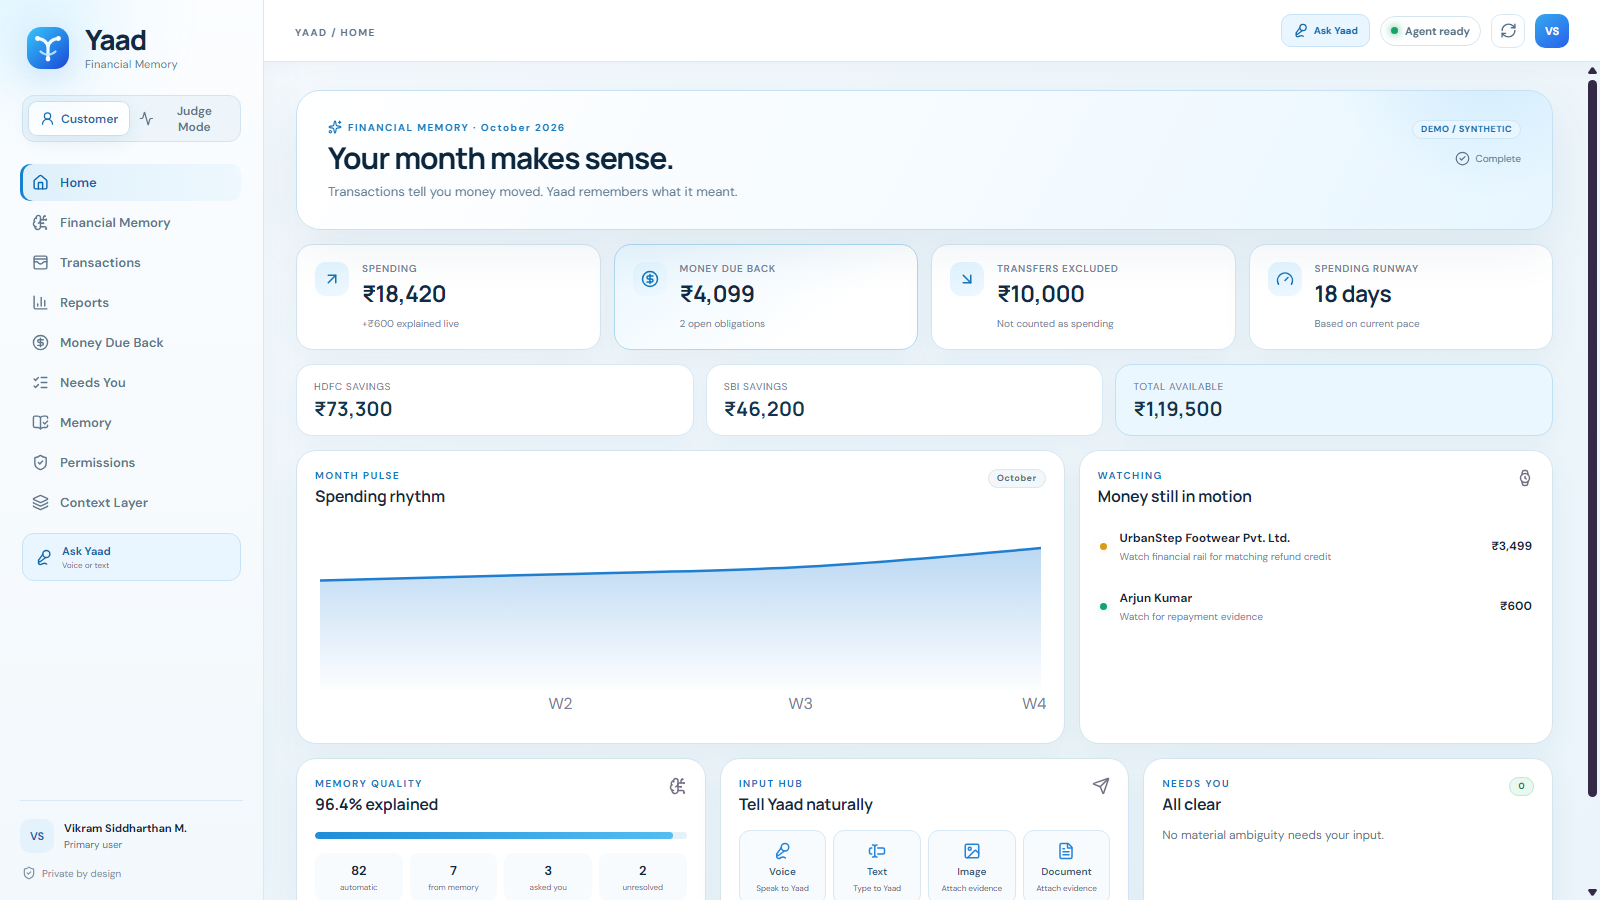
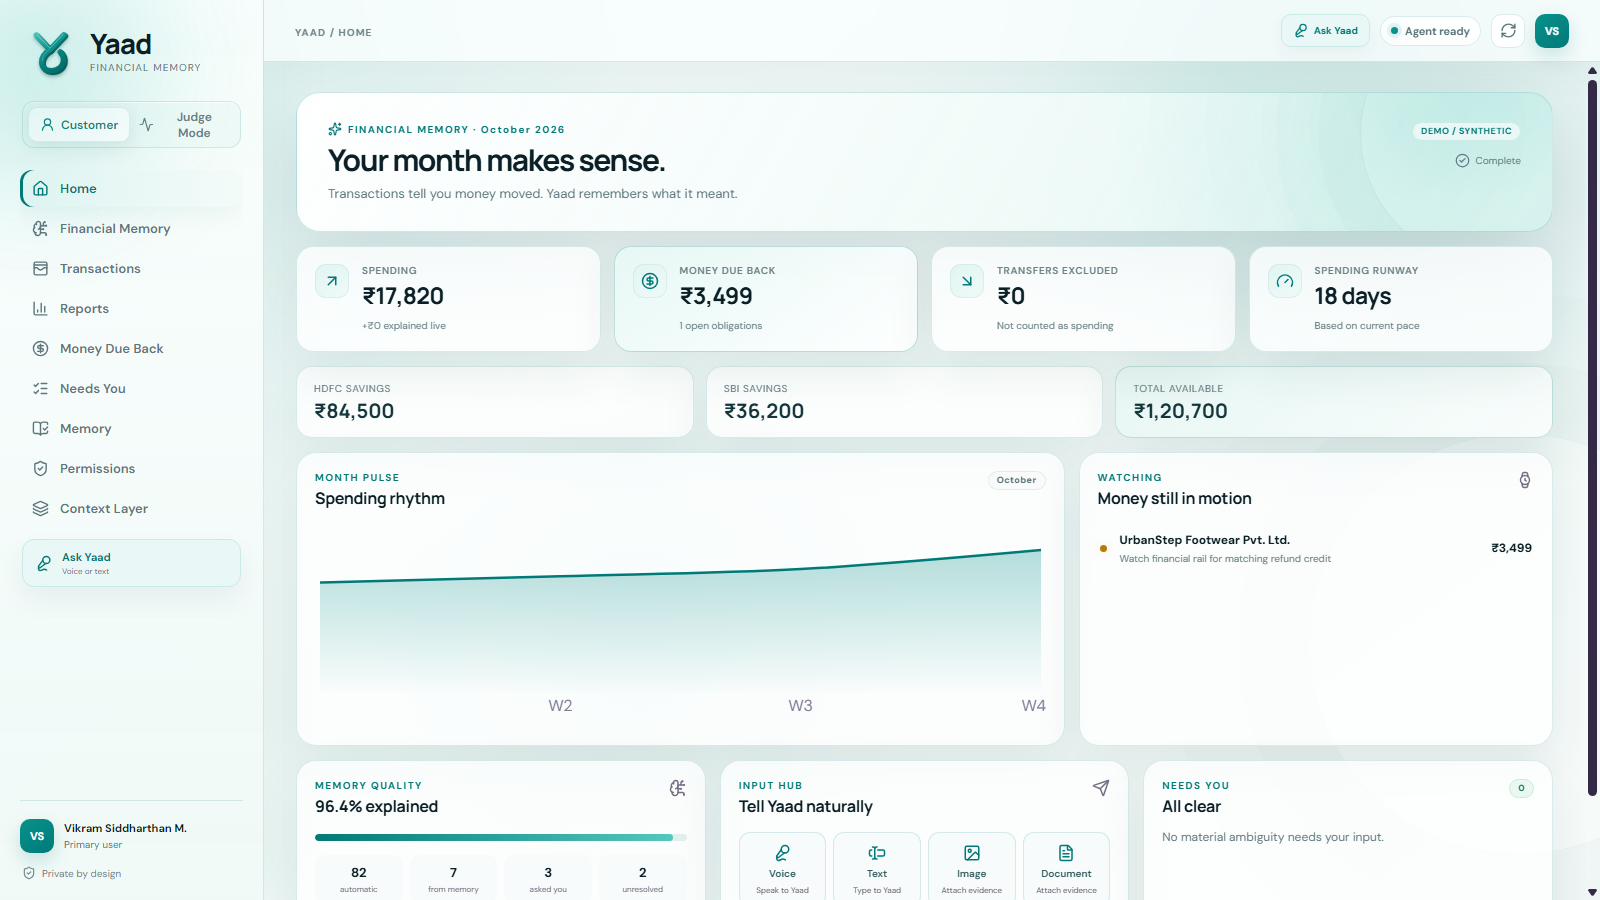
Polish Yaad 3D mark and refresh branded product screenshots

diff --git a/mockups/index.html b/mockups/index.html
@@ -5,7 +5,7 @@
 <title>Yaad — Human Interaction Map</title>
 <meta name="description" content="Every screen or conversation where Yaad meets a person, shown in the final Yaad light UI.">
 <meta name="theme-color" content="#007A78">
-<link rel="icon" href="../assets/yaad-app-icon.svg" type="image/svg+xml">
+<link rel="icon" href="../assets/yaad-favicon-v3.svg" type="image/svg+xml">
 <link rel="stylesheet" href="../styles.css">
 <link rel="stylesheet" href="../context-sections.css">
 <link rel="stylesheet" href="../brand-system.css">
@@ -15,14 +15,14 @@
 <div class="wrap">
   <nav class="nav">
     <a class="brand" href="../" aria-label="Yaad landing page">
-      <svg class="brandmark" viewBox="0 0 64 64" role="img" aria-label="Yaad logo"><path d="M13 10L32 31L51 10" fill="none" stroke="#007A78" stroke-width="8" stroke-linecap="round" stroke-linejoin="round"/><path d="M32 31C24.1 35.9 20 42.2 20 49.2C20 57.2 26.3 62 34.5 62C44.7 62 52 54.8 52 45.5C52 40.4 50 36.4 46.8 33.2" fill="none" stroke="#007A78" stroke-width="8" stroke-linecap="round" stroke-linejoin="round"/></svg>
+      <svg class="brandmark" viewBox="-5 -5 74 74" role="img" aria-label="Yaad logo"><defs><linearGradient id="yaadLogoFace" x1="15" y1="7" x2="49" y2="59" gradientUnits="userSpaceOnUse"><stop offset="0" stop-color="#39C0B6"/><stop offset=".42" stop-color="#0A918C"/><stop offset="1" stop-color="#006B68"/></linearGradient><linearGradient id="yaadLogoEdge" x1="18" y1="12" x2="47" y2="58" gradientUnits="userSpaceOnUse"><stop offset="0" stop-color="#006B68"/><stop offset="1" stop-color="#004E4C"/></linearGradient><filter id="yaadLogoShadow" x="-45%" y="-45%" width="190%" height="205%"><feDropShadow dx="0" dy="3.2" stdDeviation="2.5" flood-color="#004E4C" flood-opacity=".30"/></filter></defs><g filter="url(#yaadLogoShadow)"><path d="M14.8 11.8L33.8 31.8L52.8 11.8" fill="none" stroke="url(#yaadLogoEdge)" stroke-width="8.2" stroke-linecap="round" stroke-linejoin="round" opacity=".92"/><path d="M33.8 31.8C26.2 36.6 22.3 42.5 22.3 49C22.3 56.3 27.9 60.8 35.8 60.8C45.3 60.8 52.3 54.3 52.3 45.8C52.3 41.4 50.6 37.9 47.8 35" fill="none" stroke="url(#yaadLogoEdge)" stroke-width="8.2" stroke-linecap="round" stroke-linejoin="round" opacity=".92"/><path d="M13 10L32 30L51 10" fill="none" stroke="url(#yaadLogoFace)" stroke-width="7.5" stroke-linecap="round" stroke-linejoin="round"/><path d="M32 30C24.4 34.8 20.5 40.7 20.5 47.2C20.5 54.5 26.1 59 34 59C43.5 59 50.5 52.5 50.5 44C50.5 39.6 48.8 36.1 46 33.2" fill="none" stroke="url(#yaadLogoFace)" stroke-width="7.5" stroke-linecap="round" stroke-linejoin="round"/><path d="M13.8 9.2L32 28.4L50.2 9.2" fill="none" stroke="rgba(255,255,255,.42)" stroke-width="1.35" stroke-linecap="round"/><path d="M31 29.9C24.6 34.4 21.7 39.7 21.5 45.2" fill="none" stroke="rgba(255,255,255,.27)" stroke-width="1.25" stroke-linecap="round"/></g></svg>
       <span class="brandcopy"><strong>Yaad</strong><small>Financial Memory</small></span>
     </a>
     <div class="navlinks"><a href="../">Landing page</a><a class="solid" href="../#join"><span class="nav-label-full">Join the first 1,000</span><span class="nav-label-short">Join</span></a></div>
   </nav>
 
   <section class="mock-hero mock-hero-3d">
-    <div class="mock-hero-copy" data-reveal><div class="eyebrow">Submission mockups · Final Yaad UI</div><h1>Yaad — Human Interaction Map</h1><p>Every point where a person sees, answers, authorises or corrects Yaad. Product screens below are captured directly from the final light-blue Round 3 build; transient clarification states are rendered in the same visual system.</p><div class="legend"><span>SEE — understand state</span><span>ASK — clarify only when material</span><span>REMEMBER — persist context</span><span>ACT — explicit authority only</span></div><div class="note"><strong>Design principle:</strong> Yaad should consume less attention, not more. If evidence is sufficient, the best interaction is no interaction.</div></div>
+    <div class="mock-hero-copy" data-reveal><div class="eyebrow">Submission mockups · Final Yaad UI</div><h1>Yaad — Human Interaction Map</h1><p>Every point where a person sees, answers, authorises or corrects Yaad. Product screens below are captured directly from the refreshed Yaad teal Round 3 build; transient clarification states are rendered in the same visual system.</p><div class="legend"><span>SEE — understand state</span><span>ASK — clarify only when material</span><span>REMEMBER — persist context</span><span>ACT — explicit authority only</span></div><div class="note"><strong>Design principle:</strong> Yaad should consume less attention, not more. If evidence is sufficient, the best interaction is no interaction.</div></div>
     <div class="mock-memory-panel" data-reveal data-tilt>
       <div class="mock-memory-stage" data-three-scene data-three-variant="mockup" aria-hidden="true"><div class="three-fallback"><span class="fallback-line line-self"></span><span class="fallback-line line-arjun"></span><span class="fallback-line line-refund"></span><span class="fallback-node node-yaad">Yaad</span><span class="fallback-node node-hdfc">HDFC</span><span class="fallback-node node-sbi">SBI</span><span class="fallback-node node-arjun">Arjun Kumar</span><span class="fallback-node node-urban">UrbanStep</span></div></div>
       <div class="memory-context-layer" aria-label="Financial Memory graph showing Vikram's accounts, open receivable, expected refund and Yaad's permission state">
@@ -161,9 +161,9 @@
 
 
   <section class="interaction-library-head" id="interaction-library">
-    <div class="eyebrow">Original interaction library · preserved</div>
+    <div class="eyebrow">Interaction library · refreshed brand system</div>
     <h2>Every human-facing Yaad screen remains available below.</h2>
-    <p>The original 13 Round 3 interaction screens are preserved unchanged. The evidence sections above explain the agent architecture; this library shows exactly what the customer sees, answers, authorises or corrects.</p>
+    <p>The 13 Round 3 interaction surfaces have been recaptured in the final Yaad teal identity. The evidence sections above explain the agent architecture; this library shows exactly what the customer sees, answers, authorises or corrects.</p>
   </section>
 
   <main class="map interaction-depth-map">

diff --git a/index.html b/index.html
@@ -5,7 +5,7 @@
 <title>Yaad — Your month makes sense.</title>
 <meta name="description" content="Yaad is Financial Memory: understand money automatically, ask only when needed, and remember what is still owed.">
 <meta name="theme-color" content="#007A78">
-<link rel="icon" href="assets/yaad-app-icon.svg" type="image/svg+xml">
+<link rel="icon" href="assets/yaad-favicon-v3.svg" type="image/svg+xml">
 <link rel="stylesheet" href="styles.css">
 <link rel="stylesheet" href="context-sections.css">
 <link rel="stylesheet" href="brand-system.css">
@@ -15,7 +15,7 @@
 <div class="wrap">
   <nav class="nav">
     <a class="brand" href="./" aria-label="Yaad home">
-      <svg class="brandmark" viewBox="0 0 64 64" role="img" aria-label="Yaad logo"><path d="M13 10L32 31L51 10" fill="none" stroke="#007A78" stroke-width="8" stroke-linecap="round" stroke-linejoin="round"/><path d="M32 31C24.1 35.9 20 42.2 20 49.2C20 57.2 26.3 62 34.5 62C44.7 62 52 54.8 52 45.5C52 40.4 50 36.4 46.8 33.2" fill="none" stroke="#007A78" stroke-width="8" stroke-linecap="round" stroke-linejoin="round"/></svg>
+      <svg class="brandmark" viewBox="-5 -5 74 74" role="img" aria-label="Yaad logo"><defs><linearGradient id="yaadLogoFace" x1="15" y1="7" x2="49" y2="59" gradientUnits="userSpaceOnUse"><stop offset="0" stop-color="#39C0B6"/><stop offset=".42" stop-color="#0A918C"/><stop offset="1" stop-color="#006B68"/></linearGradient><linearGradient id="yaadLogoEdge" x1="18" y1="12" x2="47" y2="58" gradientUnits="userSpaceOnUse"><stop offset="0" stop-color="#006B68"/><stop offset="1" stop-color="#004E4C"/></linearGradient><filter id="yaadLogoShadow" x="-45%" y="-45%" width="190%" height="205%"><feDropShadow dx="0" dy="3.2" stdDeviation="2.5" flood-color="#004E4C" flood-opacity=".30"/></filter></defs><g filter="url(#yaadLogoShadow)"><path d="M14.8 11.8L33.8 31.8L52.8 11.8" fill="none" stroke="url(#yaadLogoEdge)" stroke-width="8.2" stroke-linecap="round" stroke-linejoin="round" opacity=".92"/><path d="M33.8 31.8C26.2 36.6 22.3 42.5 22.3 49C22.3 56.3 27.9 60.8 35.8 60.8C45.3 60.8 52.3 54.3 52.3 45.8C52.3 41.4 50.6 37.9 47.8 35" fill="none" stroke="url(#yaadLogoEdge)" stroke-width="8.2" stroke-linecap="round" stroke-linejoin="round" opacity=".92"/><path d="M13 10L32 30L51 10" fill="none" stroke="url(#yaadLogoFace)" stroke-width="7.5" stroke-linecap="round" stroke-linejoin="round"/><path d="M32 30C24.4 34.8 20.5 40.7 20.5 47.2C20.5 54.5 26.1 59 34 59C43.5 59 50.5 52.5 50.5 44C50.5 39.6 48.8 36.1 46 33.2" fill="none" stroke="url(#yaadLogoFace)" stroke-width="7.5" stroke-linecap="round" stroke-linejoin="round"/><path d="M13.8 9.2L32 28.4L50.2 9.2" fill="none" stroke="rgba(255,255,255,.42)" stroke-width="1.35" stroke-linecap="round"/><path d="M31 29.9C24.6 34.4 21.7 39.7 21.5 45.2" fill="none" stroke="rgba(255,255,255,.27)" stroke-width="1.25" stroke-linecap="round"/></g></svg>
       <span class="brandcopy"><strong>Yaad</strong><small>Financial Memory</small></span>
     </a>
     <div class="navlinks"><a href="#how">How it works</a><a href="mockups/">Product mockups</a><a class="solid" href="#join"><span class="nav-label-full">Join the first 1,000</span><span class="nav-label-short">Join</span></a></div>
@@ -205,7 +205,7 @@
   </div>
 </div></section>
 
-<footer class="footer"><div class="wrap footer-inner"><span>Yaad — Your money, remembered correctly.</span><span>Round 3 concept · Final light UI · Synthetic demo data</span></div></footer>
+<footer class="footer"><div class="wrap footer-inner"><span>Yaad — Your money, remembered correctly.</span><span>Round 3 concept · Final Yaad teal UI · Synthetic demo data</span></div></footer>
 <script type="module" src="three-memory.js"></script>
 <script type="module" src="motion.js"></script>
 <script type="module" src="brand-motion.js"></script>

diff --git a/brand-system.css b/brand-system.css
@@ -399,3 +399,8 @@ body:after{
 }
 
 @media(max-width:650px){.navlinks .solid{padding:10px 12px!important}}
+
+/* Dimensional Yaad mark */
+.brandmark{width:52px!important;height:52px!important;padding:1px!important;filter:none!important;overflow:visible;transform:perspective(180px) rotateY(-5deg) rotateX(2deg);transform-origin:center;transition:transform .35s cubic-bezier(.2,.8,.2,1),filter .35s ease!important}
+.brand:hover .brandmark{transform:perspective(180px) rotateY(2deg) rotateX(-1deg) translateY(-1px) scale(1.055)!important;filter:drop-shadow(0 12px 20px rgba(0,78,76,.18))!important}
+@media(max-width:650px){.brandmark{width:46px!important;height:46px!important}}
